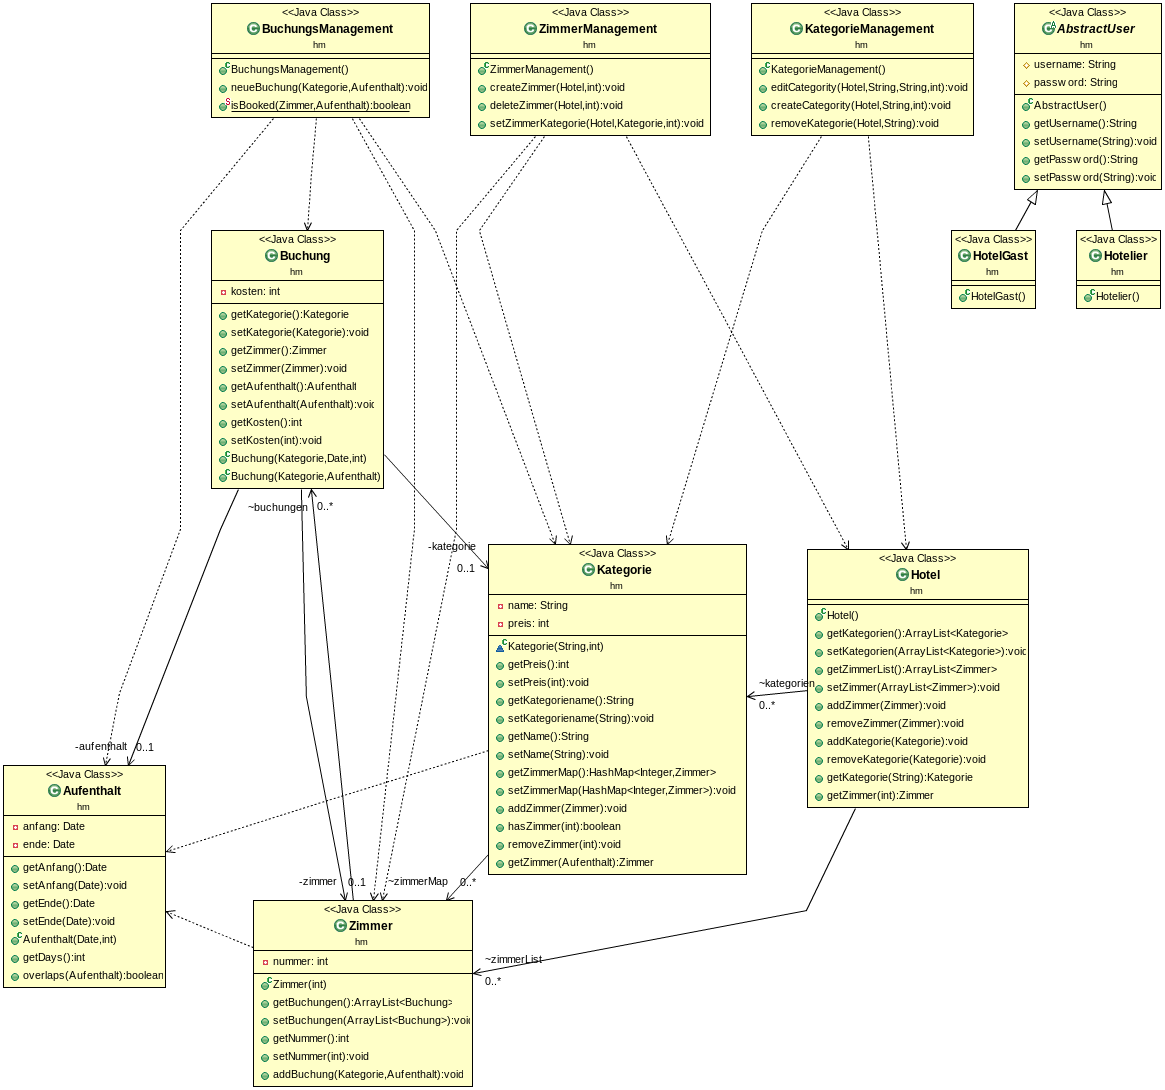
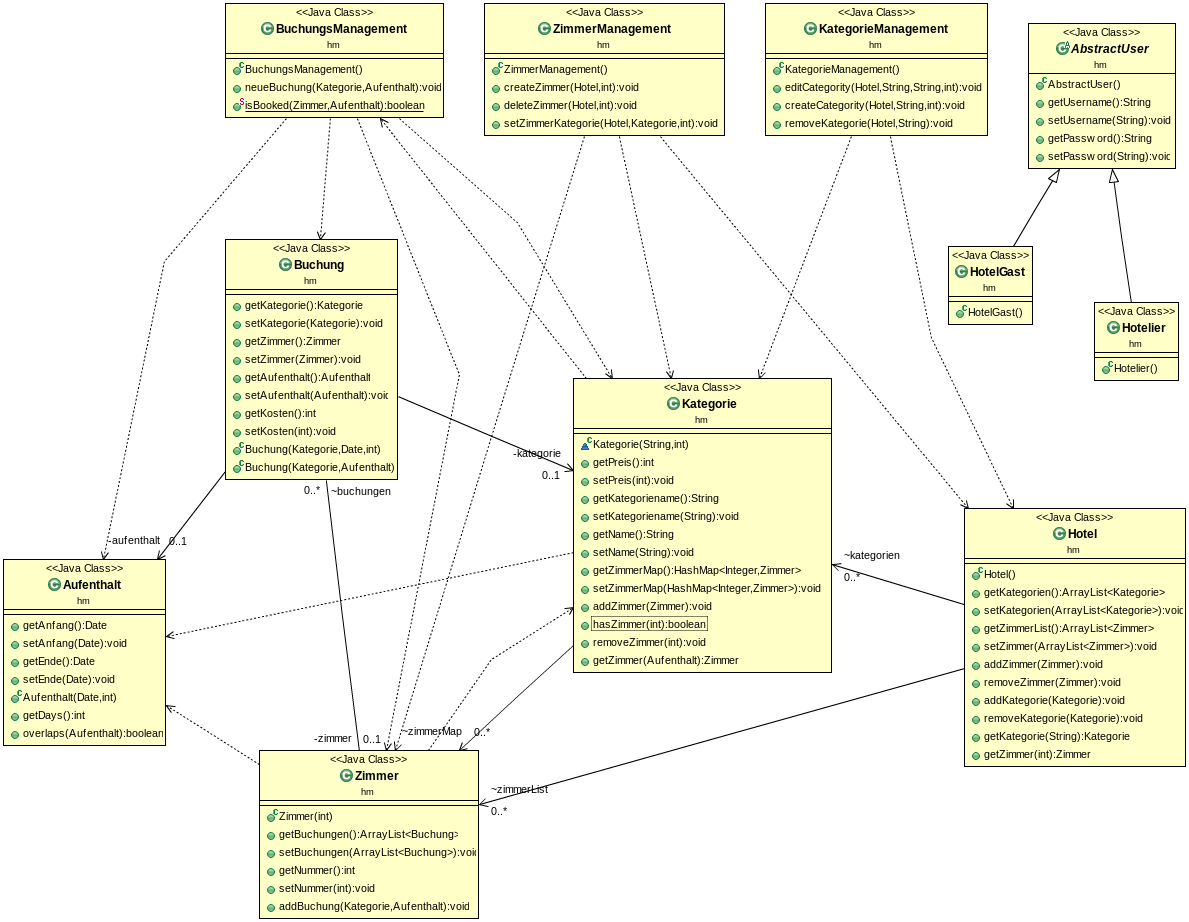
added newest changes

diff --git a/src/hm/Hotelier.java b/src/hm/Hotelier.java
@@ -1,8 +1,90 @@
 package hm;
 
+import java.util.ArrayList;
+
 public class Hotelier extends AbstractUser{
 
-	//jeder hotelier ein hotel??? 
-	//Hotel hotel = new hotel(); TODO
+	private boolean  canCreateCategory, canEditCategory,canRemoveCategory,canCreateRoom,canDeleteRoom;
+
+	private ArrayList<Hotel> hotels = new ArrayList<Hotel>();
+
+	public Hotelier(boolean canCreateCategory, boolean canEditCategory,
+			boolean canRemoveCategory, boolean canCreateRoom,
+			boolean canDeleteRoom) {
+		super();
+		this.canCreateCategory = canCreateCategory;
+		this.canEditCategory = canEditCategory;
+		this.canRemoveCategory = canRemoveCategory;
+		this.canCreateRoom = canCreateRoom;
+		this.canDeleteRoom = canDeleteRoom;
+		hotels.add(new Hotel());
+	}
+	
+	
+	public void addHotel(Hotel hotel){
+		
+		hotels.add(hotel);
+		
+	}
+	
+	public void removeHotel(Hotel hotel){
+		
+		hotels.remove(hotel);
+		
+	}
+	
+	
+	public ArrayList<Hotel> getHotels() {
+		return hotels;
+	}
+
+
+
+	public void setHotels(ArrayList<Hotel> hotels) {
+		this.hotels = hotels;
+	}
+
+
+
+	public boolean isCanCreateCategory() {
+		return canCreateCategory;
+	}
+
+	public void setCanCreateCategory(boolean canCreateCategory) {
+		this.canCreateCategory = canCreateCategory;
+	}
+
+	public boolean isCanEditCategory() {
+		return canEditCategory;
+	}
+
+	public void setCanEditCategory(boolean canEditCategory) {
+		this.canEditCategory = canEditCategory;
+	}
+
+	public boolean isCanRemoveCategory() {
+		return canRemoveCategory;
+	}
+
+	public void setCanRemoveCategory(boolean canRemoveCategory) {
+		this.canRemoveCategory = canRemoveCategory;
+	}
+
+	public boolean isCanCreateRoom() {
+		return canCreateRoom;
+	}
+
+	public void setCanCreateRoom(boolean canCreateRoom) {
+		this.canCreateRoom = canCreateRoom;
+	}
+
+	public boolean isCanDeleteRoom() {
+		return canDeleteRoom;
+	}
+
+	public void setCanDeleteRoom(boolean canDeleteRoom) {
+		this.canDeleteRoom = canDeleteRoom;
+	}
+
 	
 }

diff --git a/src/hm/Hotel.java b/src/hm/Hotel.java
@@ -4,16 +4,37 @@ import java.util.ArrayList;
 
 public class Hotel {
 
+	private String name;
+	
+	/**
+	 */
+	private ArrayList<Kategorie> kategorien = new ArrayList<Kategorie> ();
+	
+	/**
+	 */
+	private ArrayList<Zimmer> zimmerList = new ArrayList<Zimmer>();
+	
+	public Hotel() {
+		super();
+		this.name = "default";
+	}
 
-	/**
-	 */
-	ArrayList<Kategorie> kategorien = new ArrayList<Kategorie> ();
-	
-	/**
-	 */
-	ArrayList<Zimmer> zimmerList = new ArrayList<Zimmer>();
-	
-	
+	public Hotel(String name) {
+		super();
+		this.name = name;
+	}
+
+	public String getName() {
+		return name;
+	}
+
+	public void setName(String name) {
+		this.name = name;
+	}
+
+	public void setZimmerList(ArrayList<Zimmer> zimmerList) {
+		this.zimmerList = zimmerList;
+	}
 
 	public ArrayList<Kategorie> getKategorien() {
 		return kategorien;

diff --git a/src/hm/Buchung.java b/src/hm/Buchung.java
@@ -23,8 +23,20 @@ public class Buchung {
 	 */
 	private int kosten;
 	
+	private static int buchungen = 0;
+	
+	private int id;
 	
 	
+	
+	public int getId() {
+		return id;
+	}
+
+	public void setId(int id) {
+		this.id = id;
+	}
+
 	public Kategorie getKategorie() {
 		return kategorie;
 	}
@@ -71,6 +83,8 @@ public class Buchung {
 		this.aufenthalt = new Aufenthalt(d,tage);
 		this.kosten = tage * kategorie.getPreis();
 		this.zimmer = kategorie.getZimmer(aufenthalt);
+		this.id = buchungen++;
+		
 	}
 	
 	public Buchung(Kategorie kategorie, Aufenthalt aufenthalt){
@@ -79,6 +93,7 @@ public class Buchung {
 		this.aufenthalt = aufenthalt;
 		this.kosten = aufenthalt.getDays() * kategorie.getPreis();
 		this.zimmer = kategorie.getZimmer(aufenthalt);
+		this.id = buchungen++;
 	}
 
 }

diff --git a/src/hm/HotelGast.java b/src/hm/HotelGast.java
@@ -2,6 +2,27 @@ package hm;
 
 public class HotelGast extends AbstractUser{
 
-
-
+	private Buchung buchung;
+	private String zahlungsdaten;
+	
+	public HotelGast(Buchung buchung, String zahlungsdaten) {
+		super();
+		this.buchung = buchung;
+		this.zahlungsdaten = zahlungsdaten;
+	}
+	public Buchung getBuchung() {
+		return buchung;
+	}
+	public void setBuchung(Buchung buchung) {
+		this.buchung = buchung;
+	}
+	public String getZahlungsdaten() {
+		return zahlungsdaten;
+	}
+	public void setZahlungsdaten(String zahlungsdaten) {
+		this.zahlungsdaten = zahlungsdaten;
+	}
+	
+	
+	
 }
